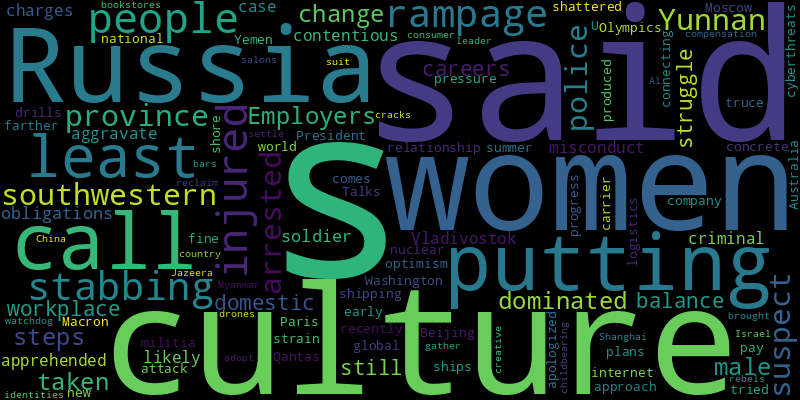
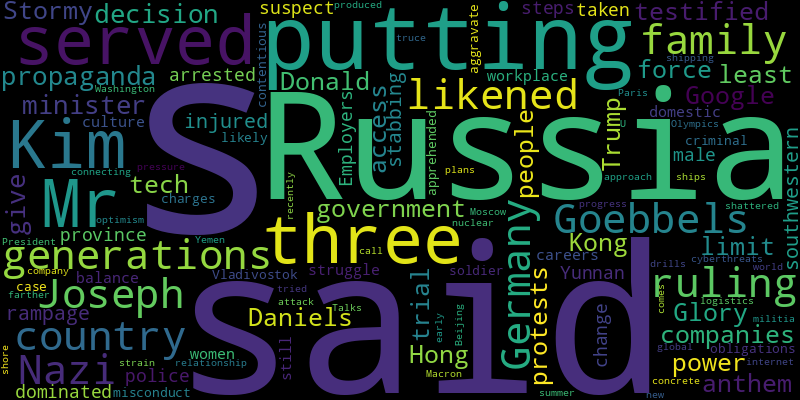
chore(bot): 👻 auto commit

diff --git a/README.md b/README.md
@@ -2,32 +2,35 @@
 Auto RSS New York Times and Generate Word Cloud
 
 ## New York Times Global News
-* Before the overnight assault in Gaza, Israel warned 110,000 people to evacuate and launched airstrikes against what it called Hamas targets. A military official said the scope of the operation was limited.
-* After leaving France later Tuesday, the Chinese leader will visit Serbia and Hungary, whose authoritarian leaders offer a haven for China as tensions grow over the war in Ukraine.
-* The event for Mr. Putin, who claimed his fifth term in a rubber-stamp election, included a church service that underscored efforts to give a religious sheen to his rule.
-* The American soldier, Staff Sgt. Gordon Black, was detained last week. He was traveling home after being stationed in South Korea, according to the U.S. authorities.
-* Employers have taken steps to change a male-dominated workplace culture. But women still struggle to balance their careers with domestic obligations.
-* Russian officials claimed the order was in response to comments from the West about the possibility of more direct involvement in Ukraine. NATO called Russia’s announcement “irresponsible.”
-* Most of Gaza’s schools, including all of its universities, have severe damage that makes them unusable, which could harm an entire generation, the United Nations and others say.
-* Recent attacks came to a head on Friday when a victim was left with broken bones. Chancellor Olaf Scholz, whose Social Democrats have been a target, denounced the attacks as a threat to democracy.
-* An official said the workers were killed by hydrogen sulfide, which is toxic in high concentrations. Italian officials and unions repeated urgent calls for better workplace safety.
-* Although a resident confessed to setting the August 2023 blaze that killed 76 people in a dilapidated building, a report found that officials had ignored warning signs for years.
+* The delegations arrived on Tuesday, hours after Israel seized control of the Gaza side of the Rafah border crossing, disrupting the flow of humanitarian aid.
+* The Israeli prime minister, under pressure from all sides, is trying to reassure his many domestic, military and diplomatic critics. Here’s a look at what he is confronting.
+* Undocumented workers played a larger and more dangerous role in delivering the Games than the Macron administration acknowledges.
+* In a worsening humanitarian crisis, Haitians have been forced to flee their homes in the face of gang onslaughts, but the international response has failed to keep up.
+* The nation faces its sixth general election in three years. “I’ve done this so many times people have started to feel pity for me,” one legislator said about campaigning.
+* After leaving France later Tuesday, the Chinese leader landed in Serbia and will visit Hungary, two countries whose authoritarian leaders offer a haven for China as tensions grow over the war in Ukraine.
+* The event for the Russian president, who claimed his fifth term in a rubber-stamp election, included a church service that underscored efforts to give a religious sheen to his rule.
+* The American soldier was detained last week. He was traveling home after being stationed in South Korea, according to the U.S. authorities.
+* The Ukrainian security services arrested two Ukrainian colonels and accused them of spying for Russia. They said the plot also targeted top Ukrainian intelligence officials.
+* The French president took Xi Jinping to his childhood haunts high in the Pyrenees, hoping to forge a bond. If only the weather had cooperated.
 
 ![Global](./global.png)
 ## New York Times United States News
+* The victim, José Mynor López, was a member of a work crew that had been filling potholes on the bridge when it was struck in March by a container ship.
+* The first big pro-Israel counter demonstration was on Sunday in Los Angeles, home to large Israeli and Jewish populations. More are planned in the coming days.
 * Accusations of antisemitism in K-12 schools have fractured a city long known for its progressive ideals and inclusiveness.
 * After helping topple two college presidents, Congress will grill school district leaders from New York City; Berkeley, Calif.; and Montgomery County in Maryland.
-* Mayor Cherelle Parker campaigned on restoring “lawfulness” to the city. Kensington, where addiction seems to be around every corner, will be her biggest test.
-* Dozens of former juvenile inmates, now adults, say they were abused by Illinois correctional workers. Lawsuits in other states have made similar claims.
-* The university has presented itself as a national model for free expression on campus. Its president said that the encampment “cannot continue.”
-* Severe weather moving east on Tuesday will bring frequent lightning, strong winds and the possibility of tornadoes to parts of Indiana, Kentucky and Ohio.
-* President Biden’s address from Capitol Hill comes during weeks of protests on American college campuses against Israel’s war in Gaza.
-* New testimony underscores how a critical miscommunication between top military officials contributed to a four-hour delay in deploying troops to help restore order at the Capitol on Jan. 6, 2021.
-* The Biden administration is spending billions to reconnect communities of color that have been fragmented by highways. Some projects have stirred debates over how to mend longstanding harms.
-* It was not clear whether Hamas revealed in the cease-fire negotiations with Israel how many of the 33 who would be freed in the first phase of the proposed deal are still alive and how many are dead.
+* The university is known for going all out on the ceremonies, but this year, after protests and arrests, the gloss is gone. Families are not happy.
+* The president’s visit will highlight the investment by Microsoft and point to a failed Foxconn project negotiated by Donald J. Trump.
+* The president and vice president have been keeping up a busy schedule in the middle of each week, just as Donald Trump takes a break from his trial in New York.
+* Robert F. Kennedy Jr., who expects to be on the ballot in Texas, could prove to be a wild card in the U.S. Senate race, which Ted Cruz had appeared likely to win.
+* After focusing on universities, a House subcommittee will question school district leaders from New York City, Berkeley, Calif., and Montgomery County in Maryland.
+* The presidential candidate has faced previously undisclosed health issues, including a parasite that he said ate part of his brain.
 
 ![US](./usnews.png)
 ## New York Times Asia News
+* Mr. Kim, who served under all three generations of the country’s ruling family, was likened to Joseph Goebbels, Nazi Germany’s propaganda minister.
+* The decision could give the government power to force Google and other tech companies to limit access to “Glory to Hong Kong,” an anthem of 2019 protests.
+* Also, Stormy Daniels testified in Donald Trump’s trial.
 * At least 21 other people were injured during the stabbing rampage in the southwestern province of Yunnan, the police said. A suspect was arrested.
 * Employers have taken steps to change a male-dominated workplace culture. But women still struggle to balance their careers with domestic obligations.
 * The soldier was apprehended in Vladivostok on charges of criminal misconduct, in a case that is likely to aggravate the contentious relationship between Moscow and Washington.
@@ -35,8 +38,5 @@ Auto RSS New York Times and Generate Word Cloud
 * Also, Russia plans for nuclear drills.
 * The shipping company said the militia had recently tried to attack ships farther from the shore of Yemen, putting more strain on logistics.
 * Talks in Paris with President Macron produced a call for an “Olympics truce” this summer but no concrete progress on Beijing putting pressure on Russia.
-* Qantas, Australia’s national carrier, apologized and said it would pay a fine and compensation to settle a suit brought by a consumer watchdog.
-* Women in Shanghai gather in bars, salons and bookstores to reclaim their identities as the country’s leader calls for China to adopt a “childbearing culture.”
-* Also, Israel cracks down on Al Jazeera and Myanmar’s rebels get creative with drones.
 
 ![Asian](./asian.png)
